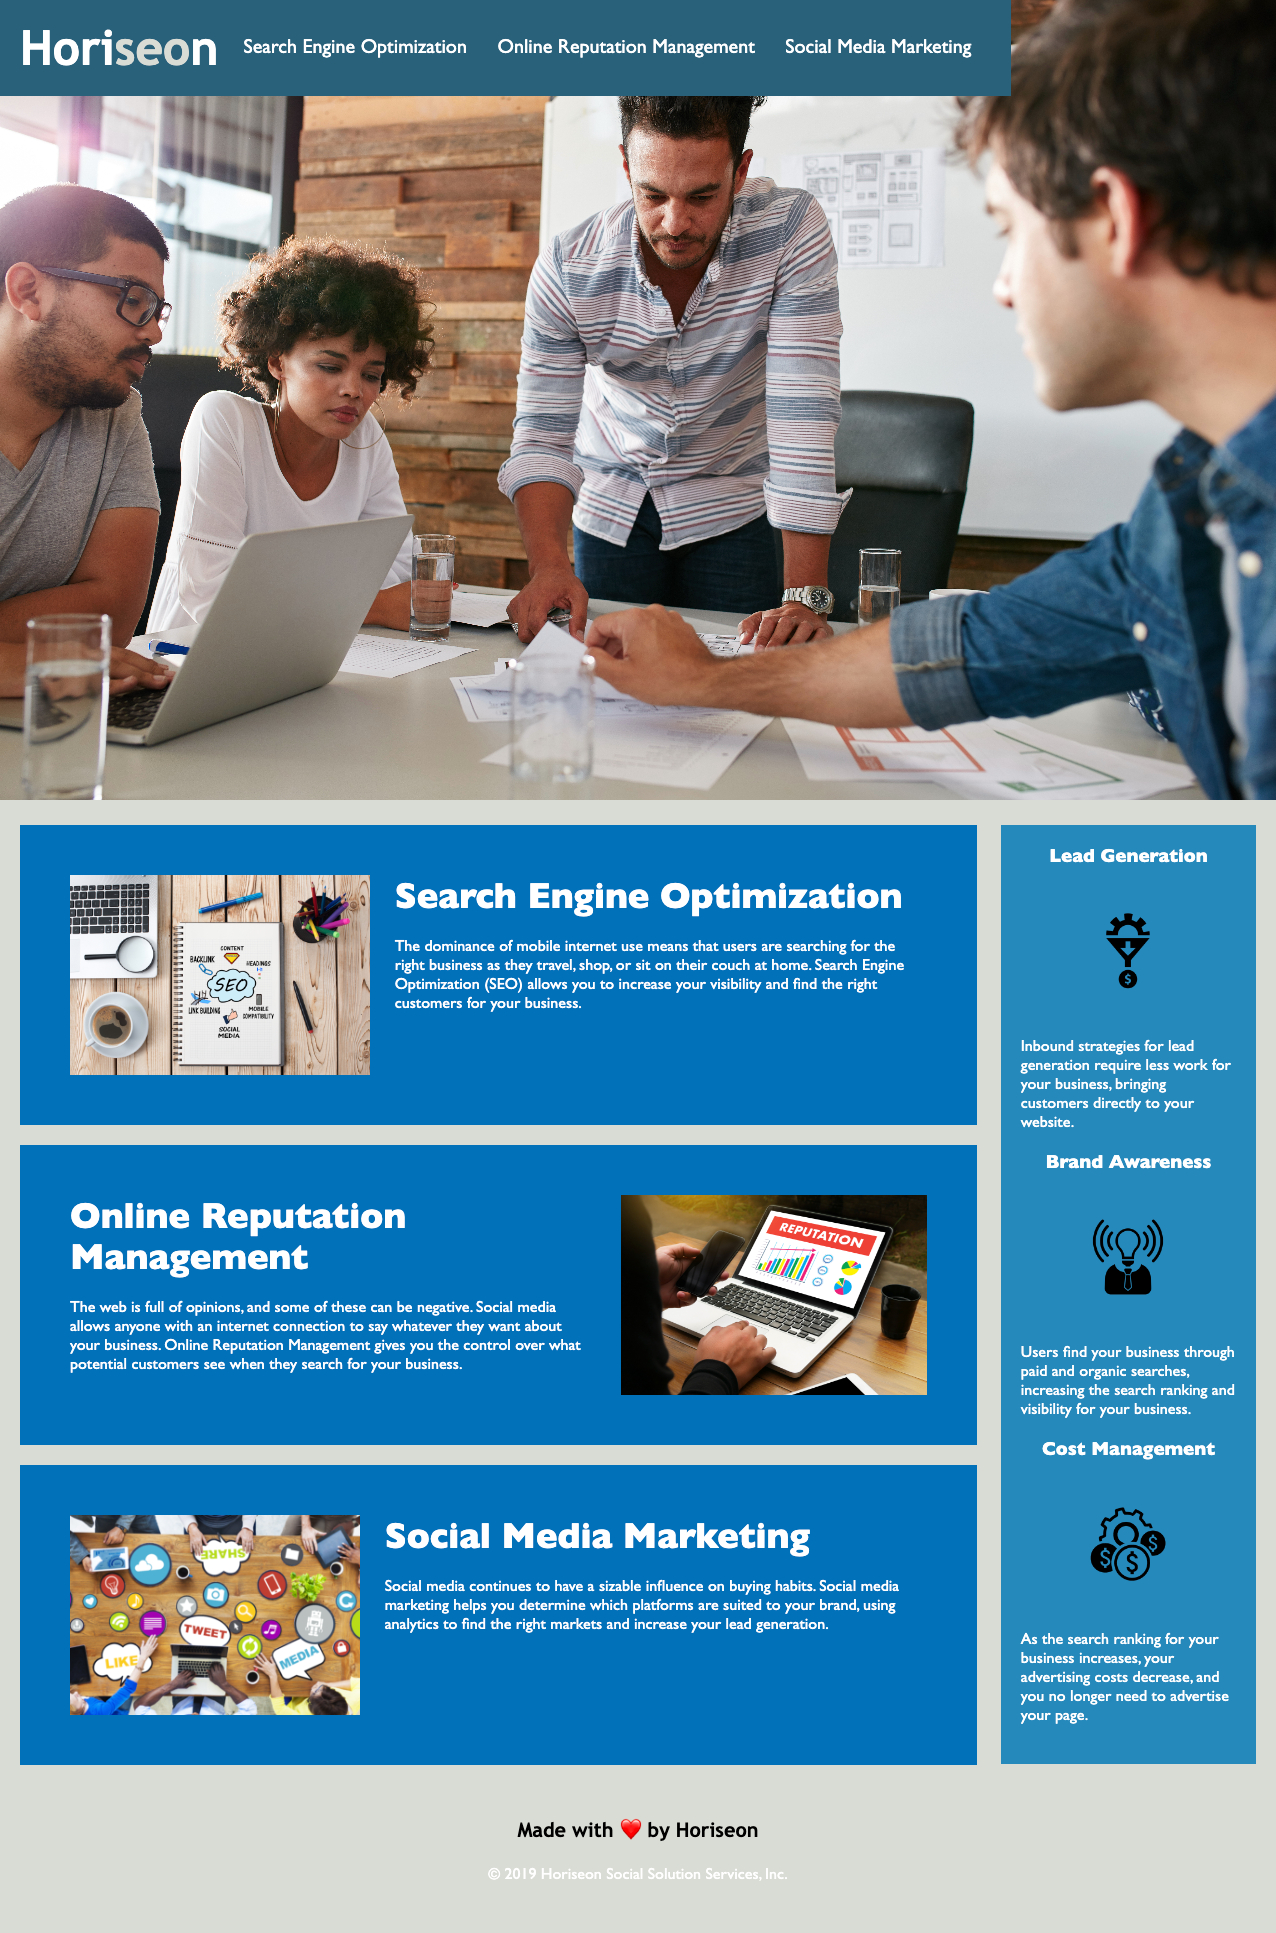
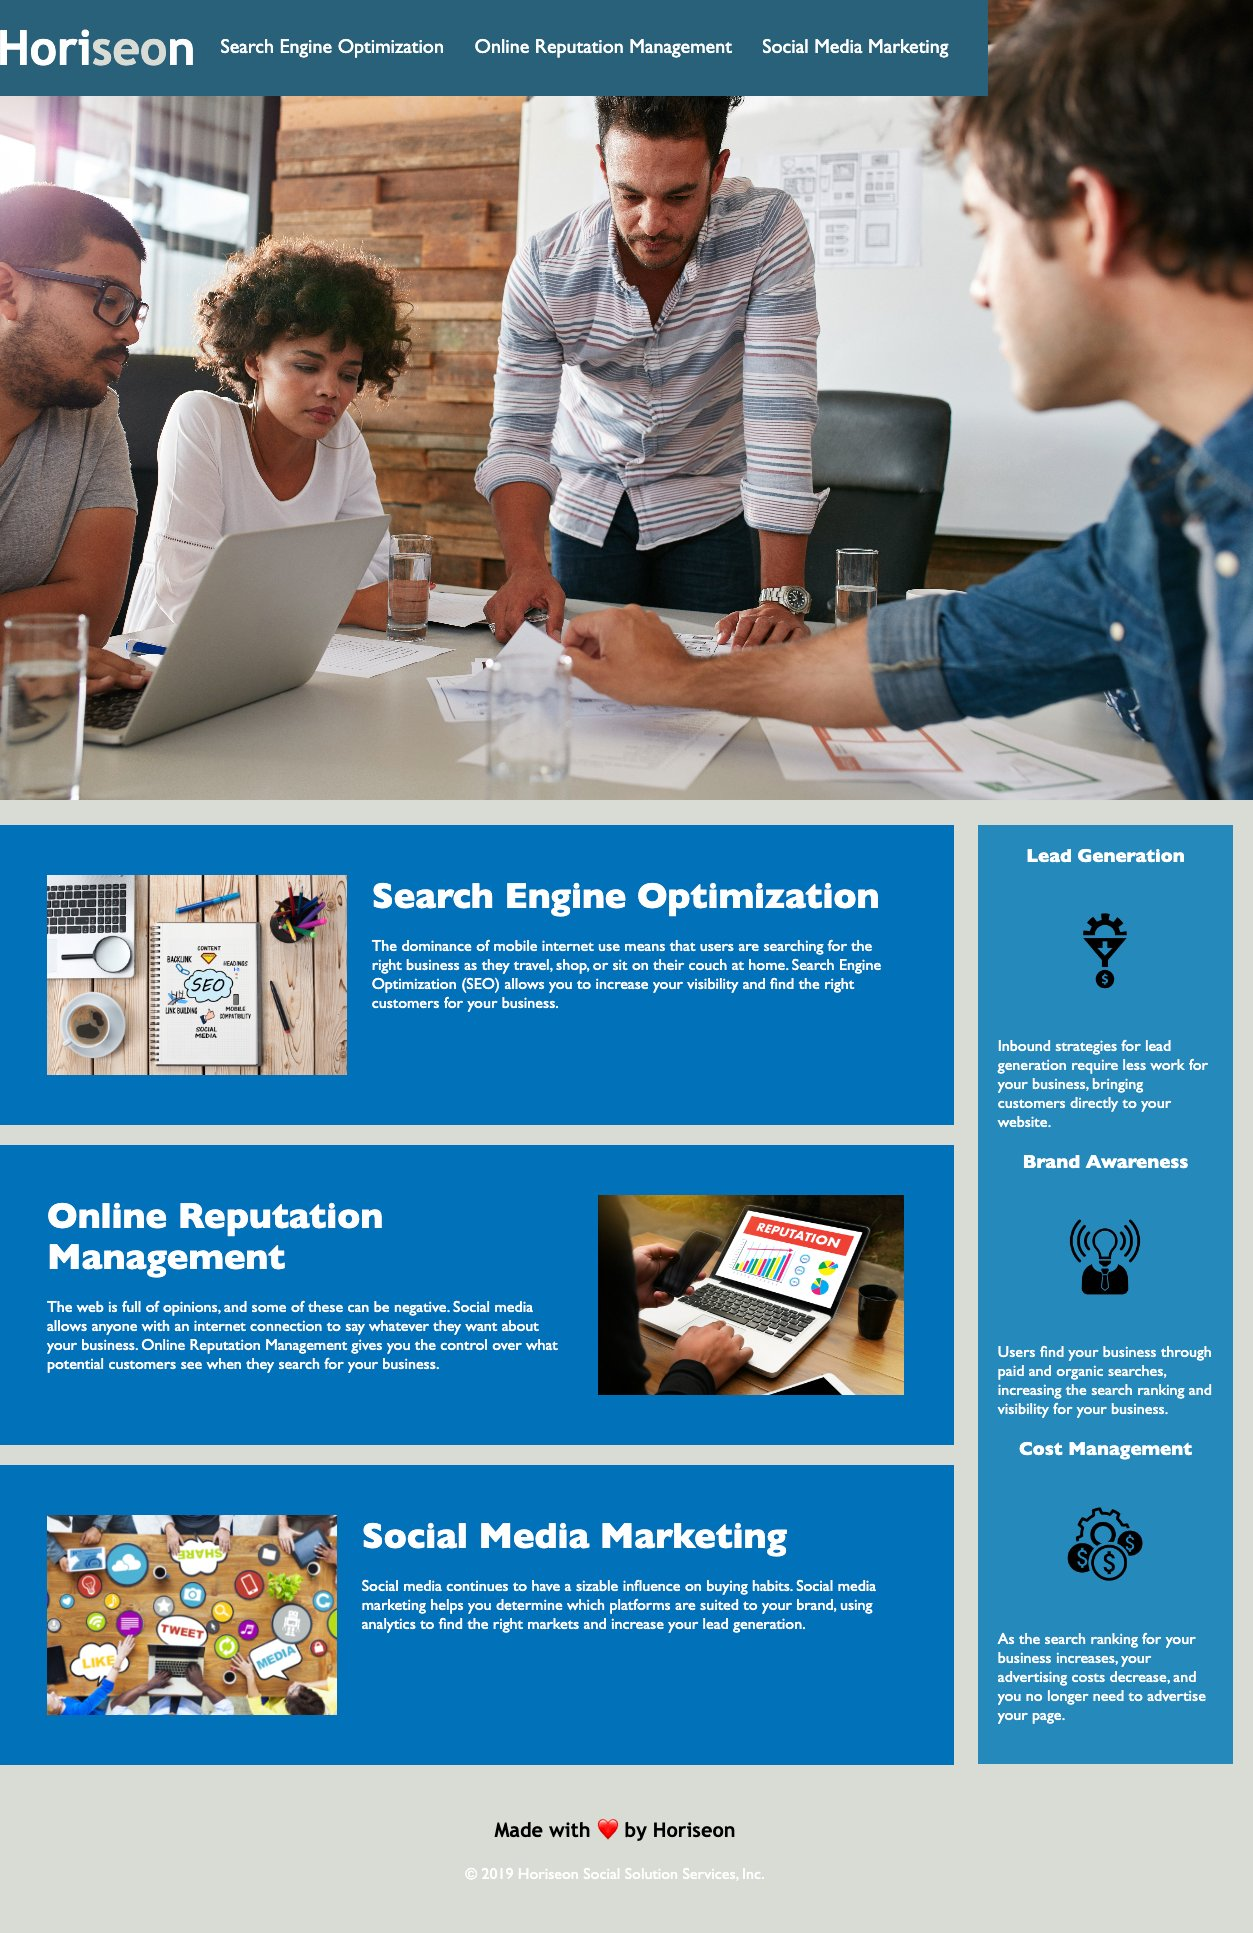
added placeholder photos

diff --git a/assets/css/style.css b/assets/css/style.css
@@ -1,24 +1,20 @@
-
-body {
-     font-family:century gothic; Century gothic Bold; Century Gothic Bold Italic, Century Gothic Italic;
-     color:#424949;
-     margin: 0px 5%;
-     gap:10px auto;
-    }
+:root {
+    --mainfont: orange;
+    --greyfont: grey;
+  }
 
 body { 
-    background-image: url("../images/electric.png");
-    background-position: top;
-    background-repeat: no-repeat;
-    background-size: cover;
     align-items: center;
-    }
+     font-family:century gothic; Century gothic Bold; Century Gothic Bold Italic, Century Gothic Italic;
+     color:grey}
 
 
 /* Header */
 #navBar {
     display: flex;
     flex-direction: row;
+    margin: 0px 5%;
+     gap:10px auto;
    
   }
 #logo {
@@ -53,36 +49,108 @@ body {
     justify-content: space-evenly;
     gap:20px;
   }
-/* Profile and information */
-.selfie {
-    max-width: 200px; height:auto;
-    position: ;
-    margin: 1  1.5;
-    padding: 0.5rem;
-    border: 3px orange;
-    border-style: dashed;
-    z-index:100px;
-}
+
 
 /* hero banner */
-/* Grid CSS */
 
 #heroGrid {
     margin: 0px;
     display: grid;
     min-height: 500px;
     height: 70vh;
-    grid-template-rows: 75% 25%;
-    grid-template-columns: 75% 25%;
-    grid-template-areas:
-    "featuredProduct secondaryProduct"
+  
   }
 #featuredProduct {
-    grid-area: featuredProduct;
-   
+    margin: 0px;
+    display: grid;
+    min-height: 500px;
+    height: 70vh;
     position: relative;
+    background-image: url("../images/modern-colorful-landing-page-website-design-template-background-layered-paper-texture-style-vector_490655-6.webp");
+    background-size: cover;
+
+    }
+/* Grid CSS */
+#projectGrid {
+        margin: 0px;
+        display: grid;
+        grid-area:stretch;
+        background-color: white;
+        grid-template-rows: 500px 500px;
+        grid-template-columns: 1fr 1fr;
+        grid-template-areas:
+        "project2 project3"
+        "project4 project5"
+        ;
+      }
+      #project2 {
+        grid-area: project2;
+        background-image: url("../images/Restaurant-website.jpg");
+        background-size: cover;
+        opacity:0.5;}
+      
+      #project3 {
+        grid-area: project3;
+        background-image: url("../images/Marketing-website.jpg");
+        background-size: cover;
+        opacity:0.5;}
+      
+      #project4 {
+        grid-area: project4;
+        background-image: url("../images/placeholder1.png");
+        background-size: contain;
+        opacity:0.5;
+      }
+      
+      #project5 {
+        grid-area: project5;
+        background-image: url("../images/Furniture-store-website.jpg");
+        background-size:cover;
+        opacity:0.5;
+      }
+
+    #project2:hover {
+        opacity:1.0}
+    #project3:hover {
+        opacity:1.0}
+    #project4:hover {
+        opacity:1.0}
+    #project5:hover {
+        opacity:1.0}
+
+        .projectGridArea {
+            background-position: center;
+            background-size: cover;
+            background-repeat: no-repeat;
+            cursor: pointer;
+            display: grid;
+            align-content: end;
+          }
+          
+          .heading {
+            padding: 15px;
+            height: 500px;
+            color: rgb(26, 26, 26);
+            font-size: 18px;
+            border-bottom: 5px solid rgb(29, 29, 29) ;
+          }
+
+    /* Profile and information */
+    .selfie {
+        max-width: 200px; height:auto;
+        position: ;
+        margin: 1  1.5;
+        padding: 0.5rem;
+        border: 3px orange;
+        border-style: dashed;
+        z-index:100px;
     }
 
+    /* footer */
+
+    footer {
+        background-color:white
+    }
 
 /* media queries */
 @media only screen and (max-width:1000px) {

diff --git a/index.html b/index.html
@@ -31,7 +31,6 @@
   </header>
 <br>
 <br>
-<img class="selfie" src="./assets/images/Selfieb&w.jpg" alt="profile photo of Tamara Joniec">
 
   <!-- hero banner -->
   <section class="hero-banner">
@@ -43,17 +42,13 @@
              <p>User-minded trainee Web Developer prioritizes usability and adaptability during projects. Designs sites to attract users with aesthetically pleasing interfaces and exceptional UX elements. Comfortable working within large-scale collaborations or on individually-developed assets.</p>
         </div>
       </div>
-        <h4>Go to Projects</h4>
-    
+      <div> 
+             <h4>Go to Projects</h4>
       </div>
     </section>
   </section>
 
   <main class="page-wrapper">
-    <!-- about me -->
-    <section class="page-section" id="about">
-      <h2>About</h2>
-    </section>
 
     <!-- portfolio container -->
     <section class="page-section" id="work">
@@ -81,6 +76,15 @@
     </section>
   </main>
 
-</body>
+</body> 
 
+<!-- about me -->
+<footer>
+    <section class="page-section" id="about">
+      <h2>About</h2>
+    </section>
+
+  <img class="selfie" src="./assets/images/Selfieb&w.jpg" alt="profile photo of Tamara Joniec">
+
+</footer>
 </html>
